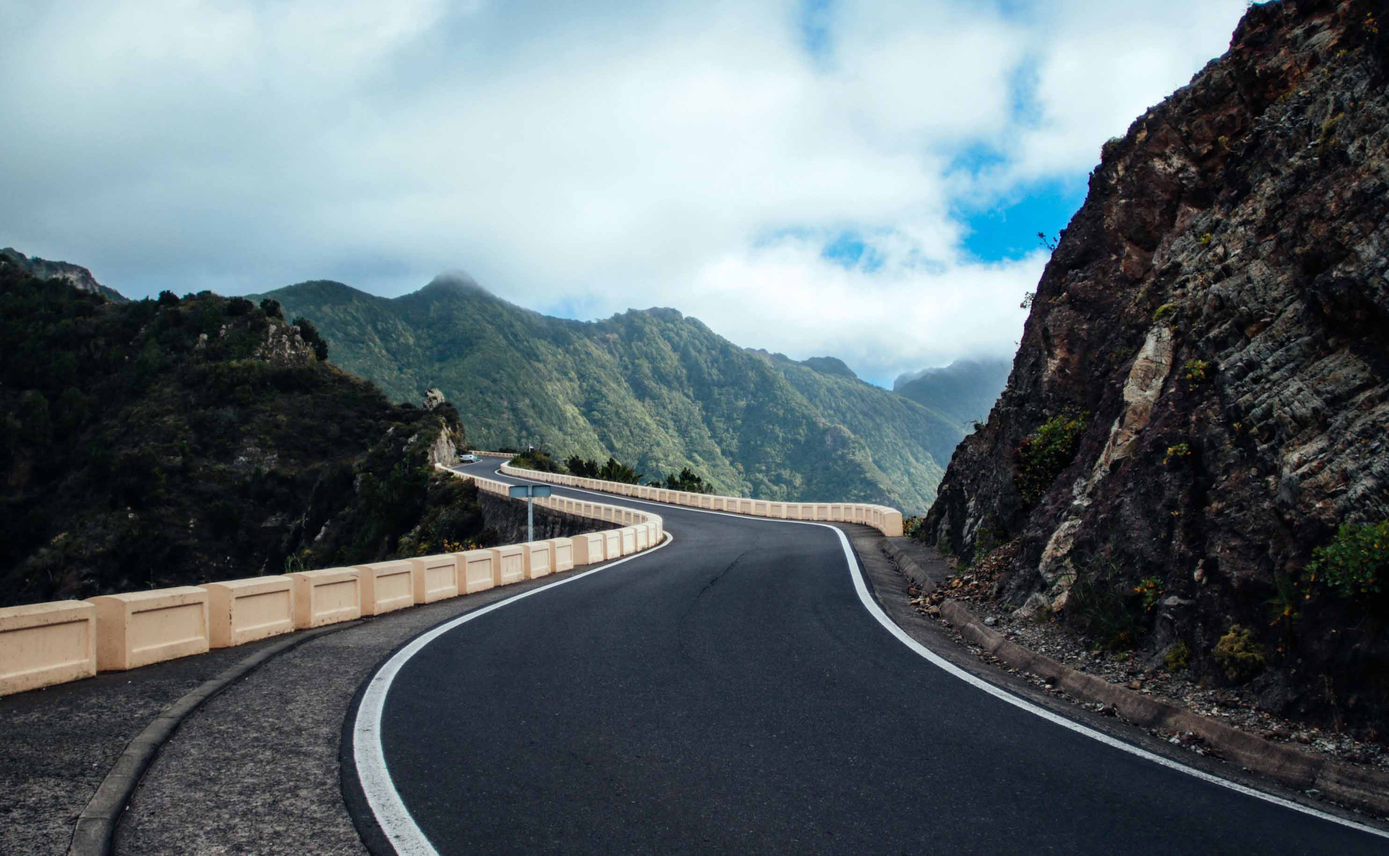
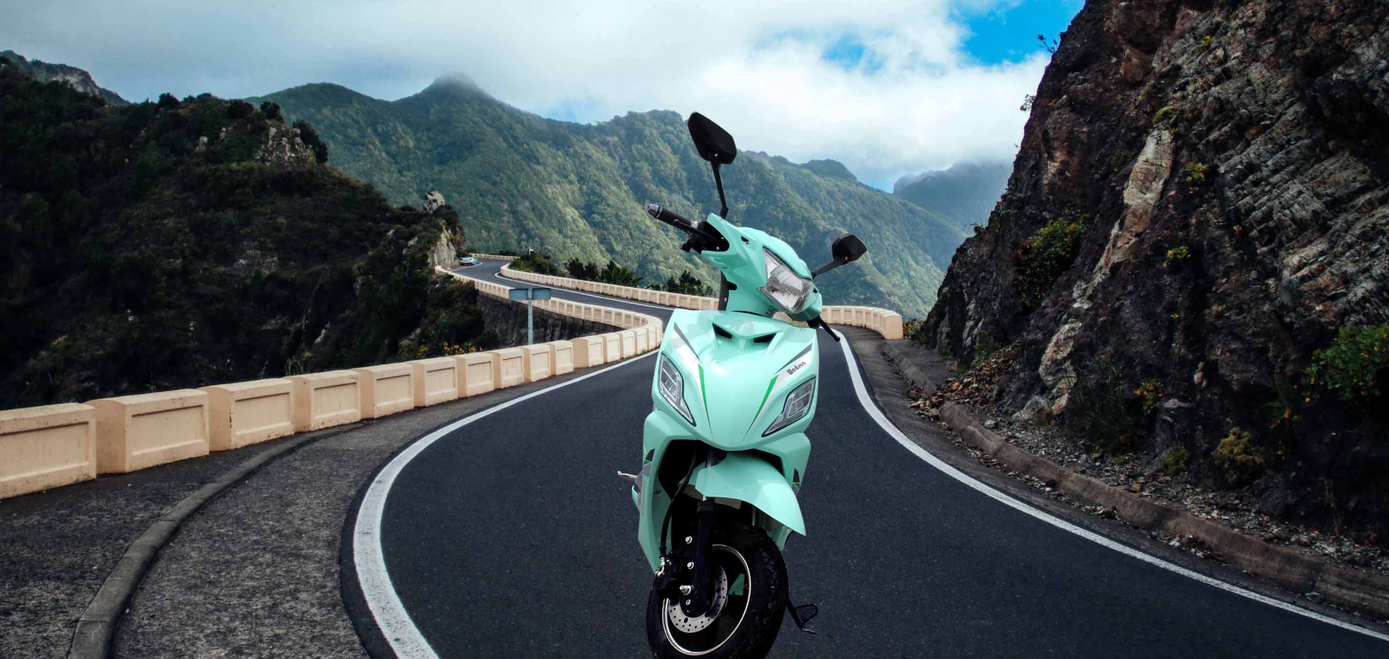
update 29 nov 2

diff --git a/wedsonmotors/about.html b/wedsonmotors/about.html
@@ -152,8 +152,8 @@
                   <div class="icon">
                     <img src="assets/images/offer-icon-5.png" alt="" class="img-fluid" />
                   </div>
-                  <div class="r-head">Million Staffs</div>
-                  Our staff can picking you anywhere anytime
+                  <div class="r-head">Friendly Staffs</div>
+                
                 </div>
               </div>
               <div class="col-xl-3 col-lg-3 col-md-4 col-sm-6 col-xs-12">
@@ -161,8 +161,8 @@
                   <div class="icon">
                     <img src="assets/images/offer-icon-6.png" alt="" class="img-fluid" />
                   </div>
-                  <div class="r-head">Free Insurance</div>
-                  Rent a car 3 days & get free insurance
+                  <div class="r-head">Insurance</div>
+                 
                 </div>
               </div>
               <div class="col-xl-3 col-lg-3 col-md-4 col-sm-6 col-xs-12">
@@ -170,8 +170,8 @@
                   <div class="icon">
                     <img src="assets/images/offer-icon-7.png" alt="" class="img-fluid" />
                   </div>
-                  <div class="r-head">Trusted Rent</div>
-                  We working since 1980 with 4.000 customers
+                  <div class="r-head">Trusted Service</div>
+                 
                 </div>
               </div>
               <div class="col-xl-3 col-lg-3 col-md-4 col-sm-6 col-xs-12">
@@ -179,14 +179,12 @@
                   <div class="icon">
                     <img src="assets/images/offer-icon-8.png" alt="" class="img-fluid" />
                   </div>
-                  <div class="r-head">All Type Cars</div>
-                  We have all brand & type cars in our garage
+                  <div class="r-head">e-Scooters</div>
+                 
                 </div>
               </div>
             </div>
-            <div class="r-insurance-btn-part">
-            
-            </div>
+           
           </div>
         </div>
 

diff --git a/wedsonmotors/contact.html b/wedsonmotors/contact.html
@@ -139,29 +139,9 @@
             </div>
           </div>
         </section>
-        <section id="r-get-in-touch">
-          <div class="r-get-in-touch">
-            <div class="container">
-              <div class="r-get-header">
-                <span>CONTACT US NOW</span>
-                <h2>Keep <b>In Touch.</b></h2>
-              </div>
-              <div class="r-get-form"> 
-                  <div class="clearfix">
-                    <div class="form-group"><input required="" name="userName"  id="userName" type="text" placeholder="User name"></div>
-                    <div class="form-group"><input required="" name="userEmail" id="userEmail" type="email" placeholder="Email Address"></div>
-                  </div>
-                  <div class="form-group"><input type="text" required="" name="subject" id="subject" placeholder="Title Message"></div>
-                  <div class="form-group">
-                    <textarea placeholder="Message" name="content" required="" id="content"></textarea>
-                  </div>
-                  <div class="text-center">
-                    <button onClick="sendContact();" class="btn btn-full" >SEND MESSAGE NOW</button>
-                  </div> 
-                <div class="mt-4 text-uppercase text-white text-center" id="mail-status"></div>
-              </div>
-            </div>
-          </div>
+        <section class="get">
+          <img src="assets/images/keep-in-touch.jpg" class="img-fluid">
+          
         </section>
         <footer>
           <div class="r-footer">
